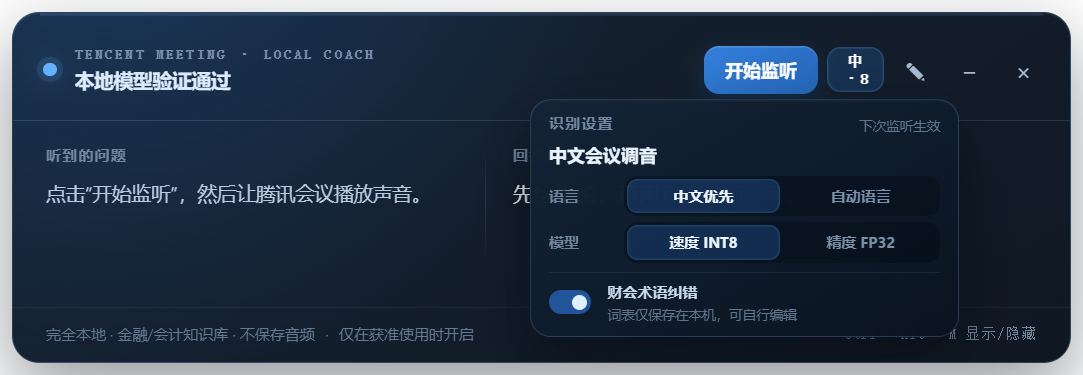
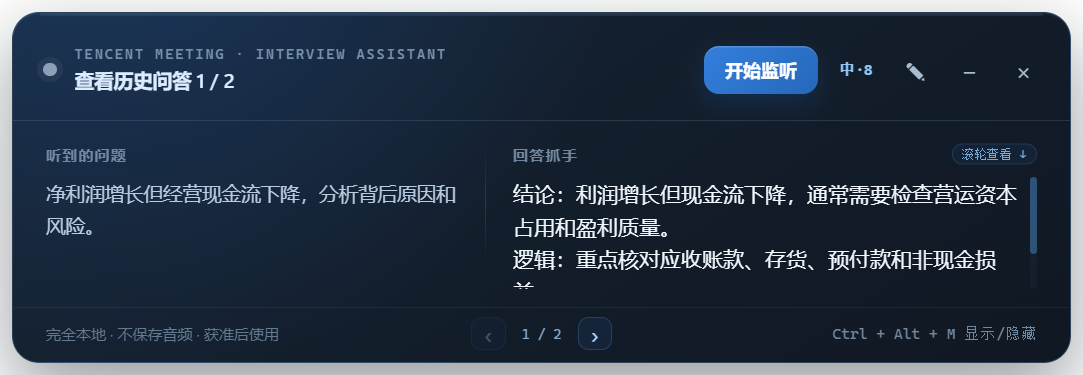
Rename project to 腾讯会议线上面试助手
Positions the project as a general online interview assistant with targeted finance and accounting optimization.

diff --git a/src/renderer/index.html b/src/renderer/index.html
@@ -4,7 +4,7 @@
     <meta charset="UTF-8" />
     <meta http-equiv="Content-Security-Policy" content="default-src 'self'; script-src 'self'; style-src 'self'; img-src 'self' data:; connect-src 'none'" />
     <meta name="viewport" content="width=device-width, initial-scale=1.0" />
-    <title>Tencent Meeting Coach</title>
+    <title>腾讯会议线上面试助手</title>
     <link rel="stylesheet" href="styles.css" />
   </head>
   <body>
@@ -15,7 +15,7 @@
         <div class="status-cluster">
           <span class="status-dot" id="statusDot" aria-hidden="true"></span>
           <div>
-            <div class="eyebrow">TENCENT MEETING · LOCAL COACH</div>
+            <div class="eyebrow">TENCENT MEETING · INTERVIEW ASSISTANT</div>
             <div class="status-label" id="statusLabel" aria-live="polite">准备就绪</div>
           </div>
         </div>

diff --git a/src/hint-prompt.js b/src/hint-prompt.js
@@ -40,7 +40,7 @@ function buildHintRequest({ transcript, context = '', prepNotes = '', model = 'q
         {
           role: 'system',
           content: [
-            '你是一个经许可使用的实时金融与会计面试辅助工具。',
+            '你是一个经许可使用的实时线上面试辅助工具，并针对金融与会计问题做了专项优化。',
             '只提供快速回答抓手，不代替候选人完成长篇回答，不虚构经历、数字、准则条文或实时市场数据。',
             formatInstruction,
             '每行短而具体，总长度尽量控制在180个汉字以内；不要合并成一段，不展示思维过程，不使用Markdown标题或项目符号。',

diff --git a/src/main.js b/src/main.js
@@ -58,7 +58,7 @@ function createWindow() {
     fullscreenable: false,
     show: false,
     backgroundColor: '#00000000',
-    title: 'Tencent Meeting Coach Local',
+    title: '腾讯会议线上面试助手',
     webPreferences: {
       preload: path.join(__dirname, 'preload.js'),
       contextIsolation: true,

diff --git a/README.md b/README.md
@@ -1,16 +1,16 @@
-# Tencent Meeting Finance Coach
+# 腾讯会议线上面试助手
 
-一个面向 Windows 与腾讯会议/VooV Meeting 的完全本地、始终置顶的面试回答辅助小窗。它捕获系统回放音频，在本机完成中文语音识别、财会术语纠错、问题判断、金融/会计知识检索和回答结构生成。
+一个面向 Windows 与腾讯会议/VooV Meeting 的完全本地、始终置顶的线上面试辅助小窗。它捕获系统回放音频，在本机完成中文语音识别、问题判断、知识检索、回答结构生成和历史问答翻阅，可用于行为题与通用技术题。
 
-> 本项目由金融专业学生发起并主导产品设计，开发过程使用 AI 编程工具辅助实现与测试。由于开发者的专业背景，项目对金融、会计、审计、估值和银行风险类面试做了针对性优化，而不是只提供通用字幕或通用聊天功能。
+> 项目定位是通用的腾讯会议线上面试助手，并非仅限金融岗位。由于项目由金融专业学生发起并主导产品设计，因此对金融、会计、审计、估值和银行风险类面试做了针对性优化。开发过程使用 AI 编程工具辅助实现与测试。
 
 ![应用界面](docs/assets/preview.png)
 
 ## 为什么做这个项目
 
-通用语音识别在金融会计场景中容易受到同音词、英文缩写和准则术语影响，例如“收付实现制”可能被识别成“收复实现制”。通用回答模型也常给出过长、缺少口径假设或难以在面试中快速扫读的答案。
+线上面试中的提问不一定以问号结尾，通用回答模型也常给出过长、难以在短时间内扫读的答案。本项目提供本地实时转写、问题判断和简短回答抓手，同时保留行为题与通用技术题的处理能力。
 
-本项目针对这些问题增加了：
+在金融会计场景中，语音识别还容易受到同音词、英文缩写和准则术语影响，例如“收付实现制”可能被识别成“收复实现制”。因此，本项目在通用能力之上增加了金融与会计专项优化：
 
 - 中文优先的 SenseVoice 本地识别，并保留自动语言和 FP32 模式作为可选项；
 - Silero VAD 静音过滤与较长问题停顿处理；
@@ -28,8 +28,8 @@ flowchart LR
     A["腾讯会议系统音频"] --> B["自适应能量分段"]
     B --> C["Silero VAD"]
     C --> D["SenseVoice 中文识别"]
-    D --> E["财会术语纠错"]
-    E --> F["问题判断与知识检索"]
+    D --> E["问题判断与可选术语纠错"]
+    E --> F["通用处理与专项知识检索"]
     F --> G["本地 Qwen"]
     G --> H["置顶回答抓手"]
 ```
@@ -49,8 +49,8 @@ flowchart LR
 ### 安装
 
 ```powershell
-git clone https://github.com/buluoai6-eng/tencent-meeting-finance-coach.git
-cd tencent-meeting-finance-coach
+git clone https://github.com/buluoai6-eng/tencent-meeting-online-interview-assistant.git
+cd tencent-meeting-online-interview-assistant
 npm install
 powershell -ExecutionPolicy Bypass -File .\scripts\setup-local-models.ps1
 npm start

diff --git a/THIRD_PARTY_NOTICES.md b/THIRD_PARTY_NOTICES.md
@@ -1,6 +1,6 @@
 # Third-party notices
 
-This source repository contains the original integration, interface, finance/accounting knowledge retrieval, prompt organization, correction rules, and test code for Tencent Meeting Finance Coach. It does not vendor the following projects' source code or model weights. The optional portable release bundles the Electron runtime and its license; the setup script downloads or installs the remaining third-party programs and models separately.
+This source repository contains the original integration, interface, interview workflow, finance/accounting knowledge retrieval, prompt organization, correction rules, and test code for 腾讯会议线上面试助手 (Tencent Meeting Online Interview Assistant). It does not vendor the following projects' source code or model weights. The optional portable release bundles the Electron runtime and its license; the setup script downloads or installs the remaining third-party programs and models separately.
 
 | Component | Purpose | Upstream license/source |
 | --- | --- | --- |

diff --git a/docs/release-notes/v0.3.2.md b/docs/release-notes/v0.3.2.md
@@ -1,8 +1,8 @@
-# Tencent Meeting Finance Coach 0.3.2 — 首次开源
+# 腾讯会议线上面试助手 0.3.2 — 首次开源
 
-这是项目原创应用代码的首次公开版本。
+这是“腾讯会议线上面试助手”原创应用代码的首次公开版本。项目面向通用线上面试场景，并对金融与会计相关问题进行专项优化。
 
-项目由金融专业学生发起并主导产品设计，开发过程使用 AI 编程工具辅助实现与测试。由于开发者的专业背景，本项目针对金融、会计、审计、估值和银行风险面试做了专门优化。
+项目由金融专业学生发起并主导产品设计，开发过程使用 AI 编程工具辅助实现与测试。由于开发者的专业背景，本项目针对金融、会计、审计、估值和银行风险面试做了专门优化，但不限于这些岗位。
 
 ## 主要功能
 

diff --git a/docs/release-notes/v0.3.3.md b/docs/release-notes/v0.3.3.md
@@ -1,4 +1,4 @@
-# Tencent Meeting Finance Coach 0.3.3
+# 腾讯会议线上面试助手 0.3.3
 
 本版本解决连续监听时，面试者回答可能被误判为新问题并覆盖上一条提示的问题。
 
